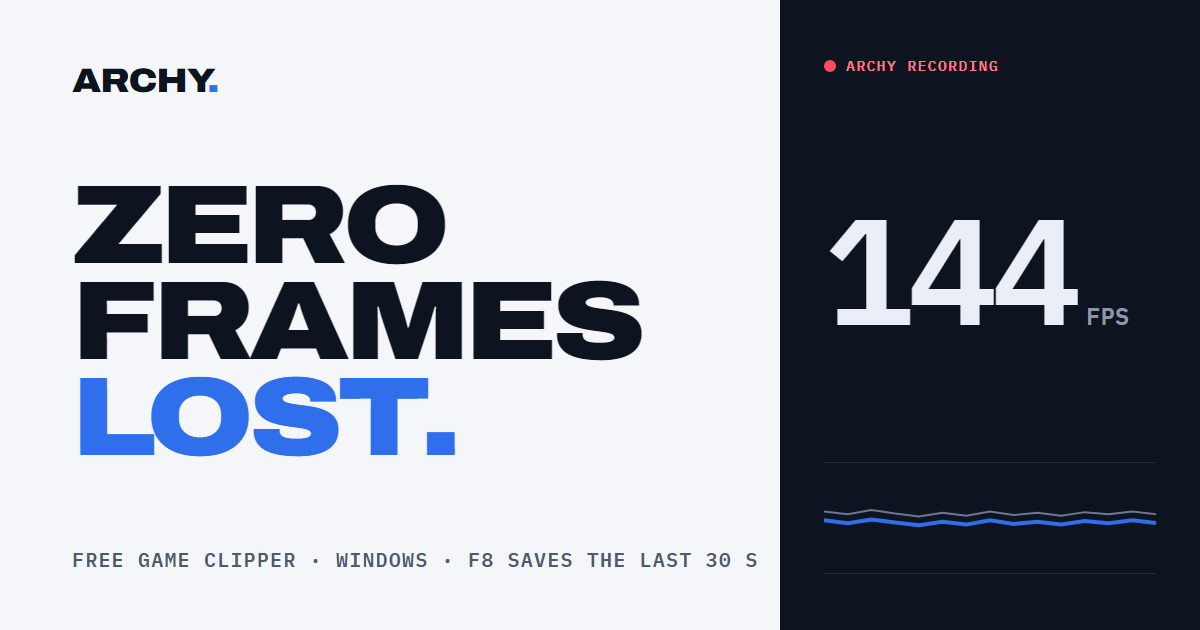
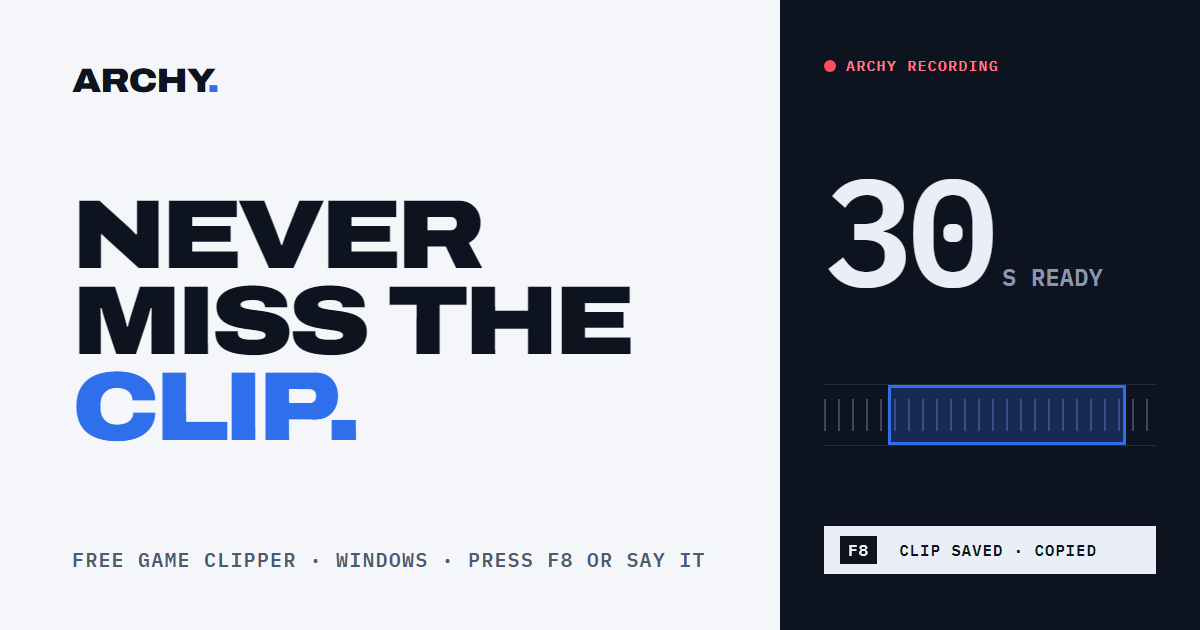
Update OG card to the Never miss the clip tagline

diff --git a/design/og-card.html b/design/og-card.html
@@ -7,14 +7,14 @@ html,body{margin:0;width:1200px;height:630px;overflow:hidden}
 body{background:#F4F6F9;color:#0E1320;font-family:Archivo;display:grid;grid-template-columns:1fr 420px}
 .l{padding:64px 0 56px 72px;display:flex;flex-direction:column;justify-content:space-between}
 .w{font:900 34px/1 Archivo;font-stretch:112%;letter-spacing:-.03em}.w b{color:#2F6FEB}
-h1{margin:0;font:900 112px/.86 Archivo;font-stretch:118%;letter-spacing:-.045em;text-transform:uppercase}h1 span{color:#2F6FEB}
+h1{margin:0;font:900 98px/.88 Archivo;font-stretch:118%;letter-spacing:-.045em;text-transform:uppercase}h1 span{color:#2F6FEB}
 p{margin:0;font:600 20px/1.4 Plex;letter-spacing:.06em;color:#4F5A70}
 .r{background:#0E1320;color:#E9EEF7;padding:56px 44px;display:flex;flex-direction:column;justify-content:space-between}
 .t{font:600 15px Plex;letter-spacing:.08em;color:#FF7A86;display:flex;gap:10px;align-items:center}.t i{width:12px;height:12px;border-radius:50%;background:#FF4D5E}
 .f{font:600 150px/1 Plex;letter-spacing:-.04em}.f small{font-size:24px;color:#8B96AD;letter-spacing:0;margin-left:10px}
-svg{width:100%;height:110px;border-top:1px solid #222B3D;border-bottom:1px solid #222B3D}
+.b{height:60px;border-top:1px solid #222B3D;border-bottom:1px solid #222B3D;position:relative;background:repeating-linear-gradient(90deg,#3A4560 0 2px,transparent 2px 14px) 0 14px/100% 32px no-repeat}.b i{position:absolute;top:0;bottom:0;right:30px;width:70%;border:3px solid #2F6FEB;background:rgba(47,111,235,.25)}.c{background:#E9EEF7;color:#0E1320;font:600 16px Plex;letter-spacing:.05em;padding:14px 16px}.c b{background:#0E1320;color:#E9EEF7;padding:4px 8px;margin-right:12px}
 </style></head><body>
-<div class="l"><div class="w">ARCHY<b>.</b></div><h1>Zero<br>frames<br><span>lost.</span></h1><p>FREE GAME CLIPPER · WINDOWS · F8 SAVES THE LAST 30 S</p></div>
-<div class="r"><div class="t"><i></i>ARCHY RECORDING</div><div class="f">144<small>FPS</small></div>
-<svg viewBox="0 0 560 150" preserveAspectRatio="none"><polyline fill="none" stroke="#6B7690" stroke-width="2" vector-effect="non-scaling-stroke" points="0,66 40,70 80,64 120,69 160,73 200,68 240,72 280,66 320,71 360,68 400,72 440,67 480,70 520,66 560,70"/><polyline fill="none" stroke="#2F6FEB" stroke-width="4" vector-effect="non-scaling-stroke" points="0,78 40,82 80,77 120,81 160,85 200,80 240,84 280,78 320,83 360,80 400,84 440,79 480,82 520,78 560,82"/></svg></div>
+<div class="l"><div class="w">ARCHY<b>.</b></div><h1>Never<br>miss the<br><span>clip.</span></h1><p>FREE GAME CLIPPER · WINDOWS · PRESS F8 OR SAY IT</p></div>
+<div class="r"><div class="t"><i></i>ARCHY RECORDING</div><div class="f">30<small>S READY</small></div>
+<div class="b"><i></i></div><div class="c"><b>F8</b> CLIP SAVED · COPIED</div></div>
 </body></html>

diff --git a/index.html b/index.html
@@ -22,7 +22,7 @@
 <meta property="og:image" content="https://hasthij.github.io/archy-site/og.png">
 <meta property="og:image:width" content="1200">
 <meta property="og:image:height" content="630">
-<meta property="og:image:alt" content="ARCHY. Zero frames lost. Free game clipper for Windows.">
+<meta property="og:image:alt" content="ARCHY. Never miss the clip. Free game clipper for Windows.">
 <meta name="twitter:card" content="summary_large_image">
 <meta name="robots" content="index, follow">
 <link rel="preload" href="fonts/archivo-latin-var.woff2" as="font" type="font/woff2" crossorigin>

diff --git a/CLAUDE.md b/CLAUDE.md
@@ -94,7 +94,7 @@ state, keyframes play the loop, `[data-live]` blocks pause off screen.
   every release (v0.7.2 has none), so `main.js` asks `api.github.com` (CSP `connect-src`, disclosed
   in privacy.html) for the newest release that has a zip and rewrites every `a[data-asset="zip"]`;
   it also fills `[data-latest]` spans with version and sizes. Fallback hrefs point at `/releases/latest`.
-- `og.png` still says "Zero frames lost"; re-render it from `design/og-card.html` if the tagline sticks.
+- `og.png` is rendered from `design/og-card.html` with headless Chrome (`--window-size=1200,630 --screenshot`); keep it in sync with the tagline.
 
 ## What's built (Oct 2026)
 
